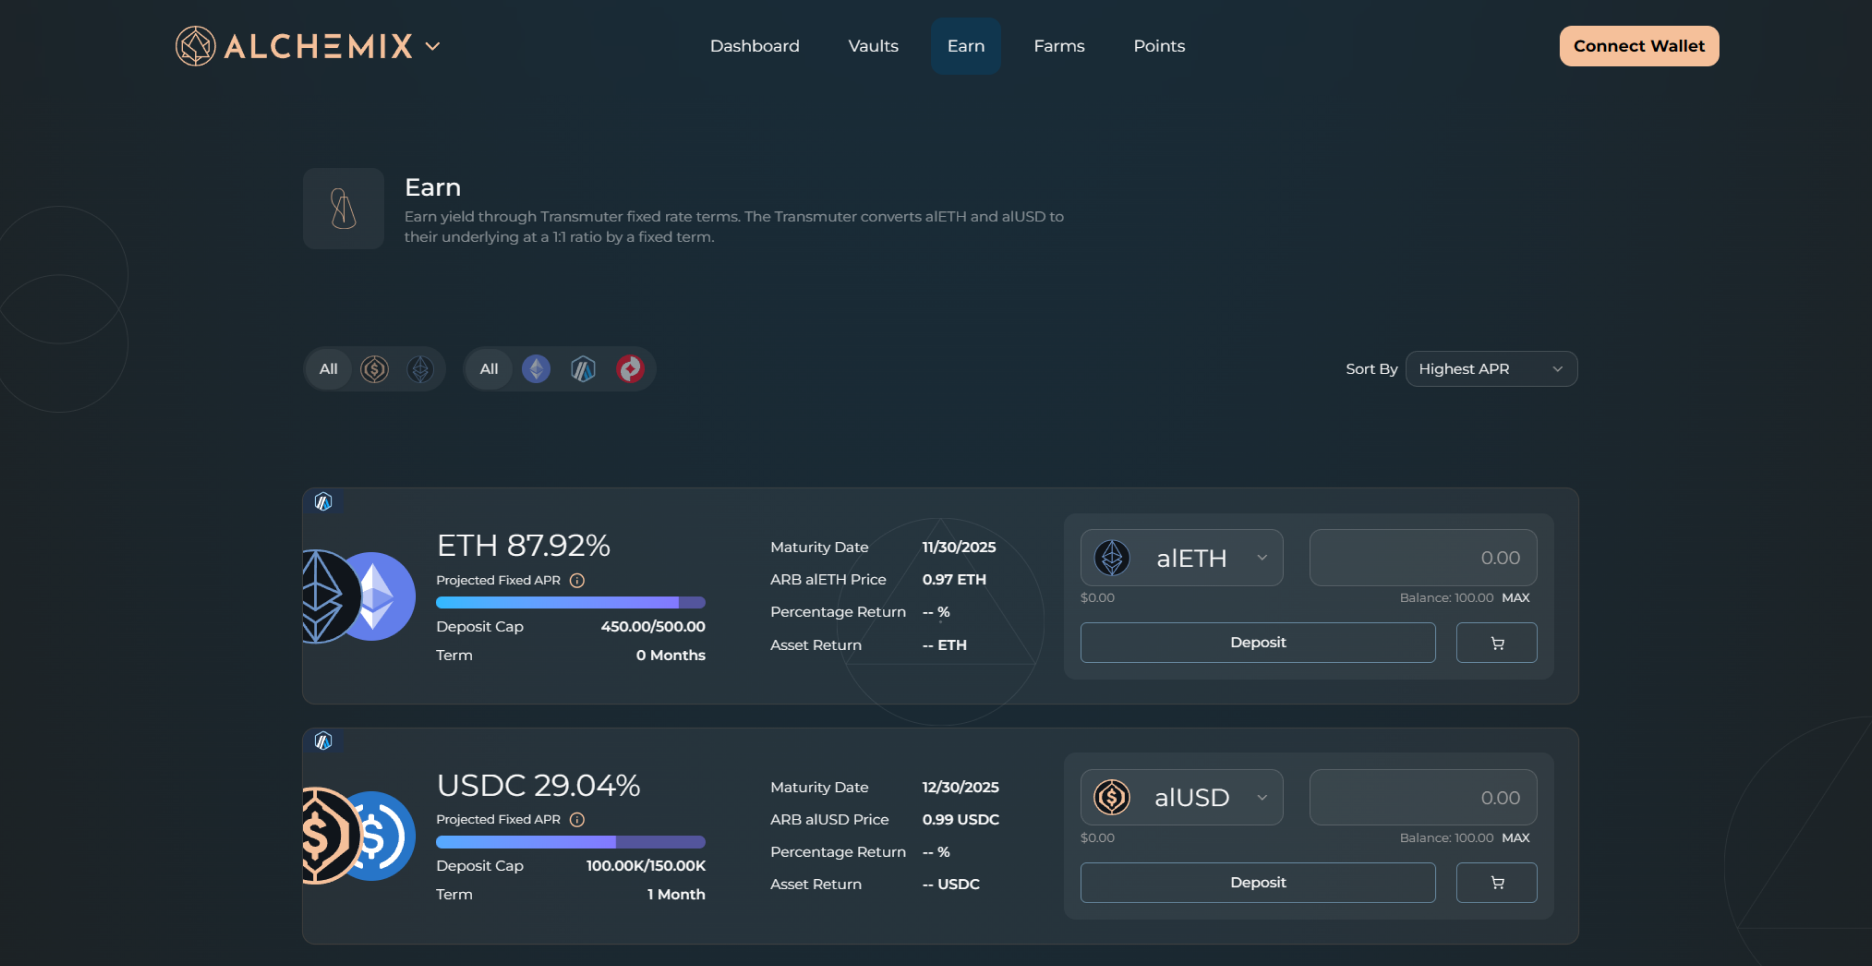
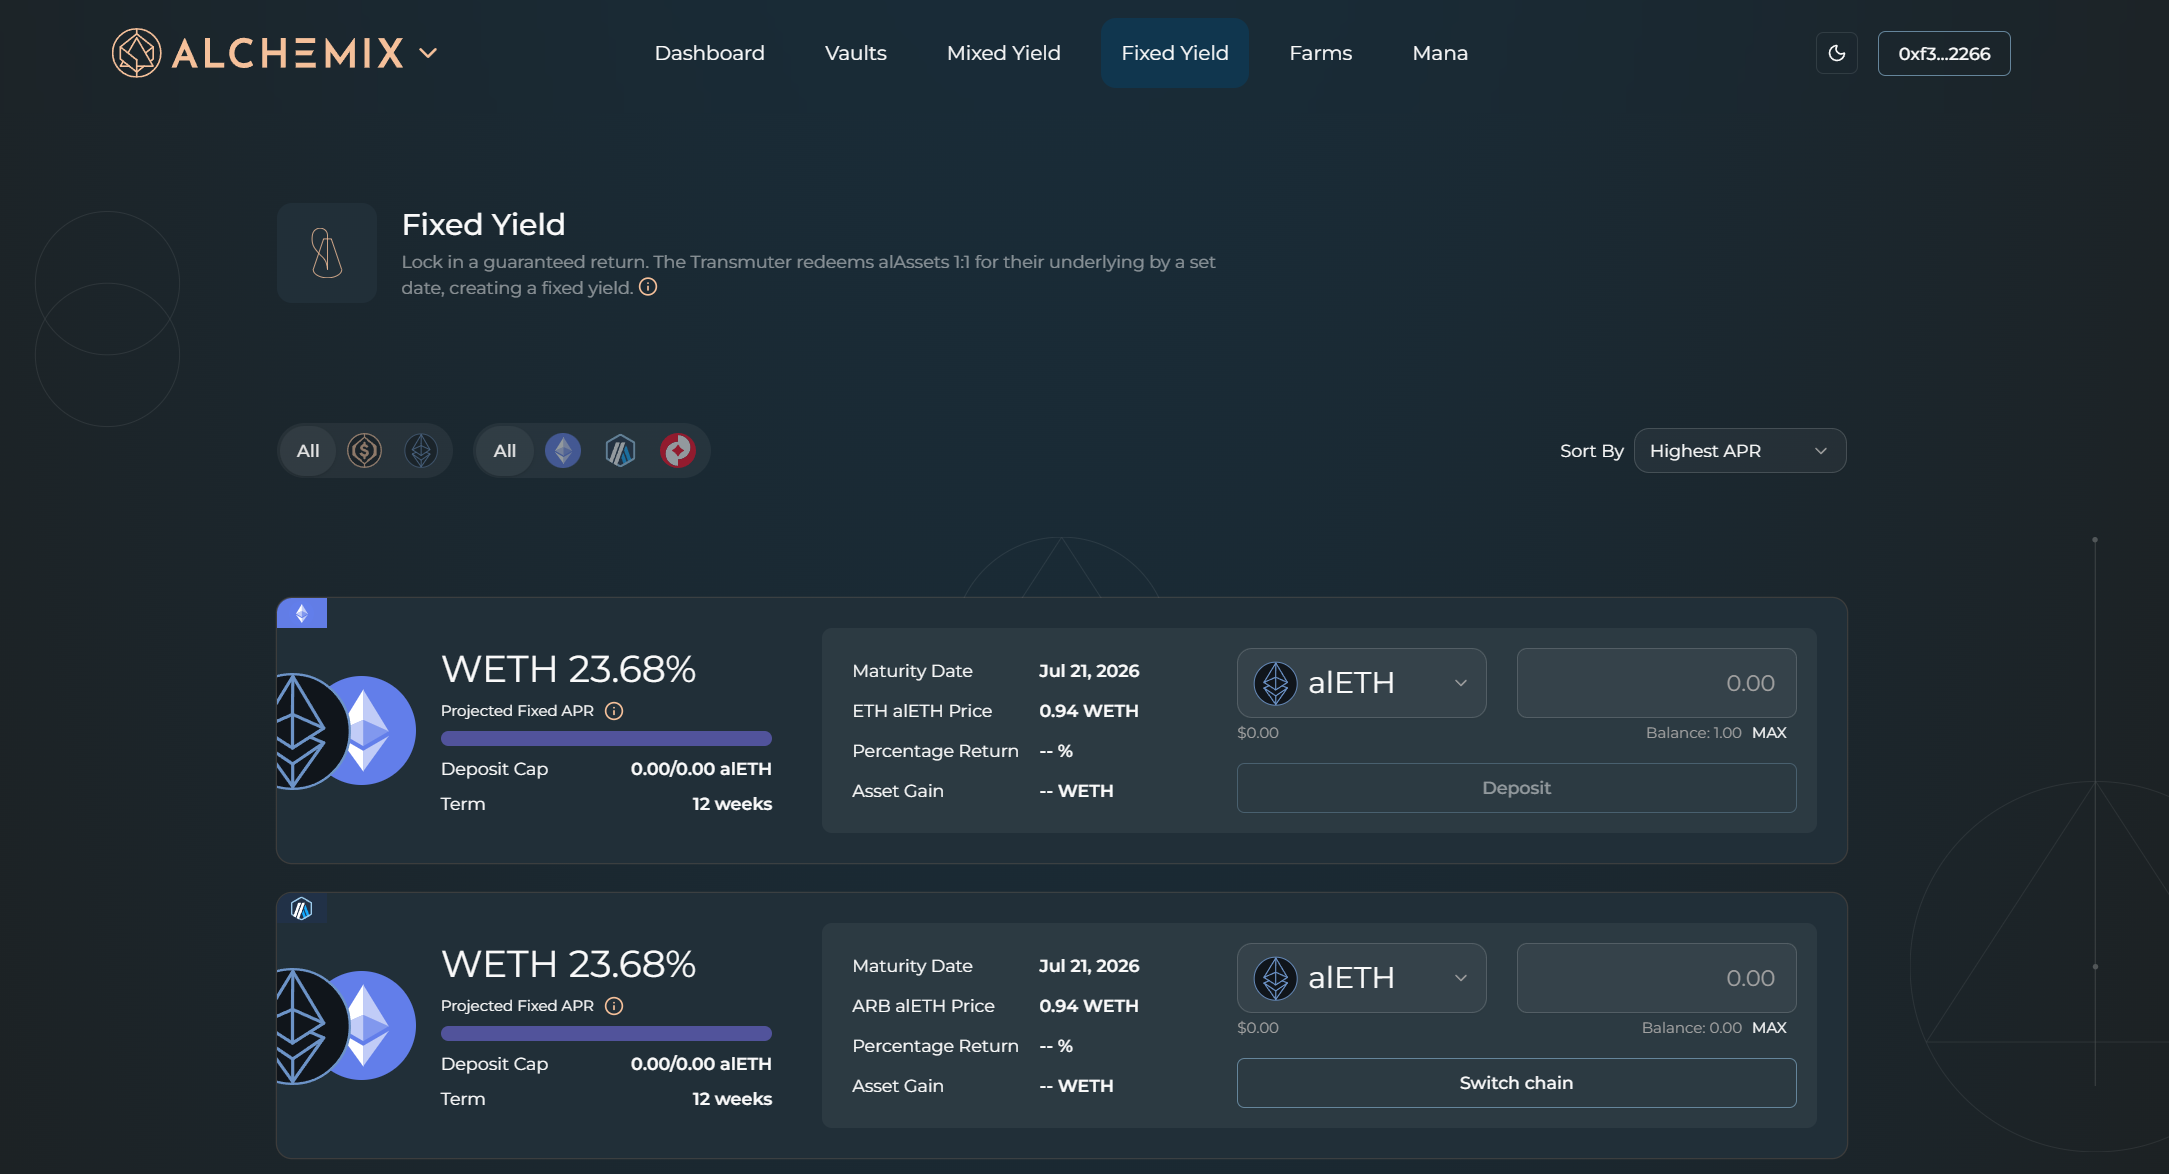
Small adjustments to tutorial section, added withdraw tutorial boilerplate

diff --git a/sidebars/sidebarsUser.js b/sidebars/sidebarsUser.js
@@ -46,6 +46,7 @@ module.exports = {
         "tutorials/deposit-and-borrow",
         "tutorials/borrowing-in-alchemix",
         "tutorials/repay-loan",
+        "tutorials/withdraw",
         "tutorials/redeem-alassets",
         "v3-migration",
       ],

diff --git a/docs/user/tutorials/withdraw.md b/docs/user/tutorials/withdraw.md
@@ -1,0 +1,46 @@
+---
+sidebar_position: 4
+hide_title: true
+title: Withdraw
+---
+
+import PageBanner from "@site/src/components/PageBanner";
+import FramedImage from "@site/src/components/FramedImage";
+
+<PageBanner title="Withdraw" />
+
+You can withdraw collateral from Alchemix at any time.
+
+- **Vault deposits with a loan** – withdrawing reduces your collateral and raises your LTV. Check your position before pulling funds out.
+- **Mixed Yield deposits without a loan** – there is no LTV to manage. Withdraw any amount up to your full balance.
+
+### Prerequisites
+
+- Connect your wallet and switch to the chain that holds the position.
+- Confirm you have ETH for gas on that chain.
+
+### Step 1 – Open the vault
+
+<FramedImage src="/img/withdraw-01.png" alt="Vault detail page" />
+
+Click Dashboard in the top navigation, then click the vault you want to withdraw from.
+
+### Step 2 – Open the Withdraw tab
+
+<FramedImage src="/img/withdraw-02.png" alt="Withdraw tab" />
+
+On the left panel, switch to the Withdraw tab.
+
+### Step 3 – Check your LTV
+
+The health bar shows your current position relative to the 90% MAX LTV cap. Withdrawing does not touch your debt, but it shrinks your collateral pushing your LTV upward. If the amount you plan to withdraw will cross the MAX LTV line, repay a little first to give yourself headroom.
+
+[Learn how to repay →](./repay-loan.md)
+
+### Step 4 – Enter an amount
+
+Type the amount you want to withdraw into the input field. The vault returns your underlying asset, including any yield the MYT has accrued.
+
+### Step 5 – Confirm
+
+Click Withdraw. Your wallet shows the network, gas estimate, and amounts. Approve the transaction.

diff --git a/docs/user/tutorials/redeem-alassets.md b/docs/user/tutorials/redeem-alassets.md
@@ -1,5 +1,5 @@
 ---
-sidebar_position: 4
+sidebar_position: 5
 hide_title: true
 title: Redeem alAssets
 ---

diff --git a/docs/user/tutorials/repay-loan.md b/docs/user/tutorials/repay-loan.md
@@ -17,7 +17,7 @@ Paying down or closing a loan does more than remove debt. It directly improves e
 
 - **Collateral freedom** – collateral earmarked for the next redemption cycle is released proportionally, so you can withdraw it or redeploy it elsewhere.
 
-- **Room for withdrawals** – if you need to pull principal out of the vault, reducing debt first keeps your LTV from spiking and prevents an accidental liquidation trigger.
+- **Room for withdrawals** – withdrawing collateral reduces your deposit and raises your LTV against the 90% LTV cap. Repaying first creates the headroom to pull principal out.
 
 Making even a small repayment secures more control over how and when you use your collateral.
 